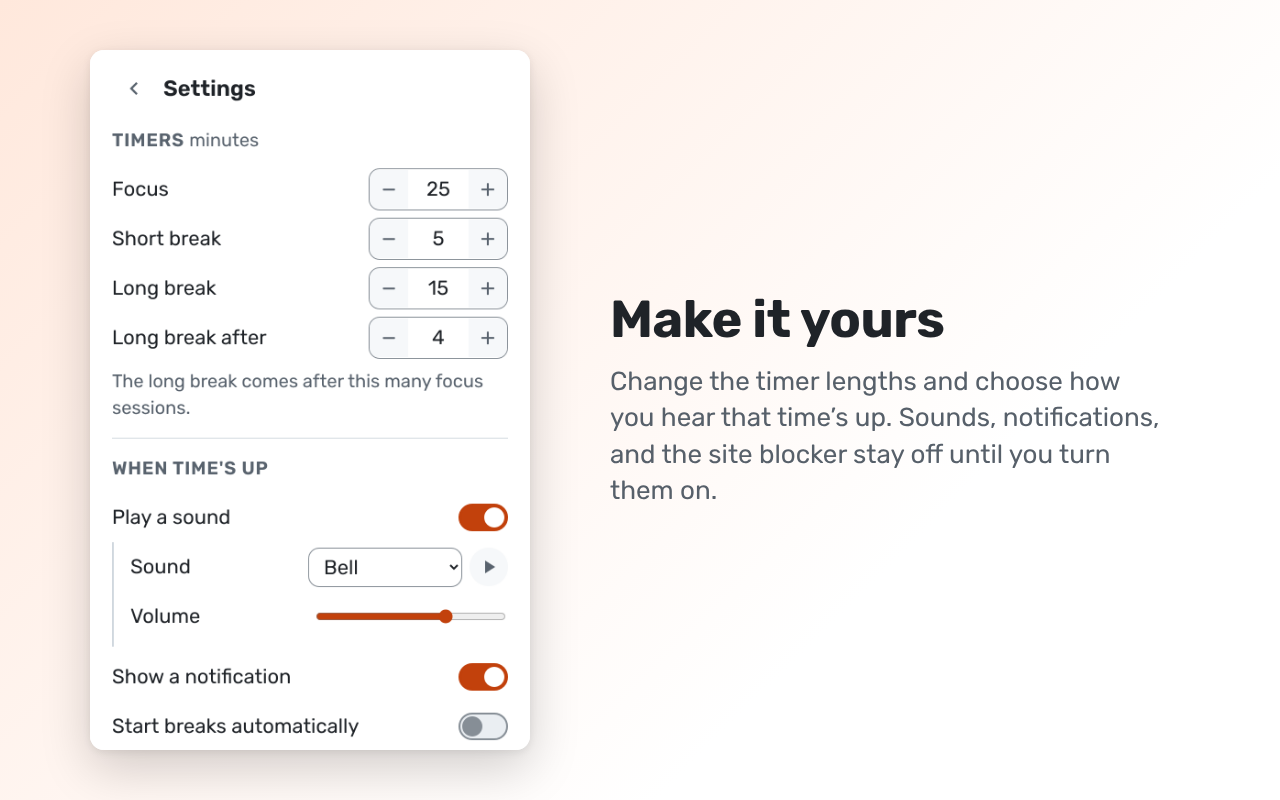
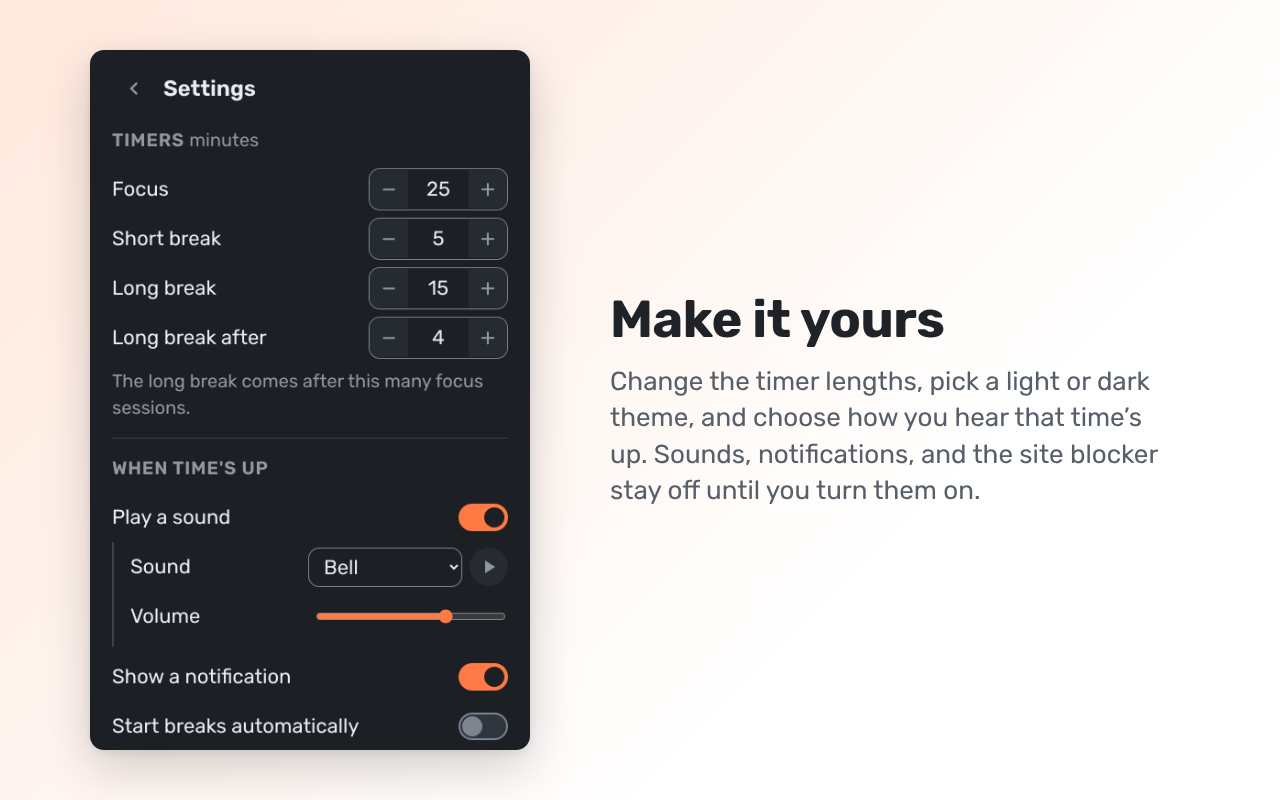
Release 1.1.0: version bump, changelog, and refreshed store listing
Bumps the extension to 1.1.0 for the first Chrome Web Store update and adds a
CHANGELOG.md covering everything merged since 1.0.0. The store description
gains a short "What's new in 1.1" section and gathers its URLs into one Links
block, since the store doesn't make links in the description clickable. The
support URL moves to the website's contact section, and the break and settings
screenshots now show the optional quote and the dark theme.

Claude-Session: https://claude.ai/code/session_011BbHMu8Vy1ggP7uzVQsrNe

diff --git a/store/LISTING.md b/store/LISTING.md
@@ -1,7 +1,7 @@
 # Chrome Web Store listing
 
 Everything to paste into the [Developer Dashboard](https://chrome.google.com/webstore/devconsole)
-for Tomomomento 1.0.0. Images are in [`images/`](images); regenerate them with
+for Tomomomento 1.1.0 (what changed: [CHANGELOG.md](../CHANGELOG.md)). Images are in [`images/`](images); regenerate them with
 `node scripts/store-images.mjs` after UI changes.
 
 ## Store listing tab
@@ -28,10 +28,11 @@ Features
 • A countdown badge on the toolbar icon, so you can see the time left at a glance
 • Optional alerts when time's up: a gentle bell, chime, or beep, and/or a desktop notification
 • Optional auto-start for breaks and focus sessions
-• Today's completed sessions, and dots showing how close the long break is
+• A progress bar under the clock, today's completed sessions, and dots showing how close the long break is
 • An optional site blocker that shows a "stay focused" page for the sites you choose, only during focus sessions
 • A built-in guide to the technique and how to use it
 • Light and dark themes that follow your system, or pick one yourself
+• Optional quotes on the timer screen: focus quotes while you work, rest quotes on breaks
 • Large, easy-to-read text, with keyboard and screen reader support
 • Alt+Shift+P opens Tomomomento from anywhere in Chrome
 
@@ -39,11 +40,21 @@ Private by design
 Tomomomento has no account, no ads, no analytics, and no tracking. It makes no network requests. Your settings stay in your browser.
 
 Free and open source
-Tomomomento is free and always will be. The code is open under the MIT License at https://github.com/jtpoltorak/tomomomento. It was built with Claude Code, Anthropic's AI coding assistant.
+Tomomomento is free and always will be. The code is open under the MIT License. It was built with Claude Code, Anthropic's AI coding assistant. Not using Chrome? The same timer runs in any browser on the website below.
 
-Not using Chrome? The same timer runs in any browser at https://tomomomento.com.
+What's new in 1.1
+• Choose a light, dark, or system theme
+• Optional quotes on the timer screen
+• A progress bar under the clock
+• Bigger text and controls, and Help split into tabs
+• Accessibility: meets WCAG 2.2 AA in both themes
+• Fixed: the "done today" count now resets at midnight
 
-Questions or ideas? Email support@tomomomento.com.
+Links
+Website: https://tomomomento.com
+Source code: https://github.com/jtpoltorak/tomomomento
+Full changelog: https://github.com/jtpoltorak/tomomomento/blob/main/CHANGELOG.md
+Questions or ideas: support@tomomomento.com
 
 Pomodoro® and the Pomodoro Technique® are registered trademarks of Francesco Cirillo. Tomomomento isn't affiliated with or endorsed by Francesco Cirillo.
 ```
@@ -66,7 +77,13 @@ Pomodoro® and the Pomodoro Technique® are registered trademarks of Francesco C
 
 **Homepage URL:** https://tomomomento.com
 
-**Support URL:** https://github.com/jtpoltorak/tomomomento/issues
+**Support URL:** https://tomomomento.com/legal.html#contact (no GitHub account needed to reach you)
+
+The description is plain text: the store doesn't turn URLs or emails in it into
+links. The clickable links on the listing come from the **Homepage URL** and
+**Support URL** fields above and the developer contact email (Account page,
+shown under Details). That's why the description keeps its links together in
+one "Links" block, where they're easy to spot and copy.
 
 **Mature content:** No
 
@@ -102,3 +119,16 @@ Pomodoro® and the Pomodoro Technique® are registered trademarks of Francesco C
 - **Payments:** Free of charge
 - **Visibility:** Public (or Unlisted first, if you'd like to try the store install before anyone can find it)
 - **Distribution:** All regions
+
+## Publishing an update
+
+1. Bump `version` in `package.json` (the build copies it into the manifest).
+   The store rejects a zip whose version isn't higher than the published one.
+2. Add the release to [CHANGELOG.md](../CHANGELOG.md) and the "What's new"
+   lines in the description above.
+3. `npm run package` writes `tomomomento-<version>.zip`. If the UI changed,
+   rerun `node scripts/store-images.mjs` too.
+4. In the dashboard, open the item, go to **Package** > **Upload new package**,
+   and upload the zip. Update the **Store listing** tab (description,
+   screenshots) if they changed, then **Submit for review**. The live version
+   stays up until the update is approved.

diff --git a/README.md b/README.md
@@ -6,6 +6,10 @@ long break after every 4 sessions. All of that is adjustable. Sound and
 notification alerts and a site blocker are available but off until you turn
 them on.
 
+Get it on the [Chrome Web Store](https://chromewebstore.google.com/detail/tomomomento-focus-timer/jifoicfckeiocjdipblgjndlmfojkdam),
+or use it in any browser at [tomomomento.com](https://tomomomento.com). What's
+new in each release is in [CHANGELOG.md](CHANGELOG.md).
+
 <p>
   <img src="docs/popup.png" alt="Timer" width="360" />
   <img src="docs/settings.png" alt="Settings" width="360" />
@@ -170,7 +174,7 @@ collection, which keeps review straightforward.
 
 1. Keep "Pomodoro" out of the extension's name and store title: Pomodoro® is a registered trademark of Francesco Cirillo, whose [trademark guidelines](https://www.pomodorotechnique.com/pomodoro-trademark-guidelines/) don't allow it in product names. Describing the technique is fine with the ® and the not-affiliated note (see Help and `legal.html#credits`).
 1. If your name or support email changes, update `src/shared/about.ts`, `PRIVACY.md`, and `TERMS.md` together.
-1. Bump `version` in `package.json` (the build copies it into the manifest).
+1. Bump `version` in `package.json` (the build copies it into the manifest) and add the release to [CHANGELOG.md](CHANGELOG.md) and the "What's new" lines in the store description.
 1. Run `npm run package` and upload the zip it writes.
 1. Register at the [Chrome Web Store Developer Dashboard](https://chrome.google.com/webstore/devconsole) (one-time $5 fee). Add support@tomomomento.com as the account's contact email (it's shown on the listing and can be changed later; the sign-in account can't). Turn on 2-step verification for the Google account, and declare yourself a **non-trader** (you're an individual, not a business).
 1. Fill in the Store listing, Privacy practices, and Distribution tabs from [store/LISTING.md](store/LISTING.md), which has the description, category, permission justifications, privacy answers, and the screenshots and promo tiles in [store/images](store/images). Regenerate the images with `node scripts/store-images.mjs` after UI changes.

diff --git a/CHANGELOG.md b/CHANGELOG.md
@@ -1,0 +1,39 @@
+# Changelog
+
+What changed in each release of the Chrome extension. The web app at
+https://tomomomento.com updates from `main` as changes land, so it gets each of
+these first.
+
+## 1.1.0 (2026-10-09)
+
+### New
+
+- **Theme setting:** choose light, dark, or follow your system (Settings > Appearance).
+- **Optional quotes:** a short quote on the timer screen, about focus and effort
+  during focus sessions and about rest on breaks. Off by default; turn it on in
+  Settings > Appearance.
+- **Progress bar:** a bar under the clock that empties as time runs out, in place
+  of the ring.
+- **Bigger, easier-to-read layout:** larger text and controls throughout.
+- **Help tabs:** Help is split into Basics, Tips, Technique, and About.
+
+### Accessibility
+
+- Meets WCAG 2.2 AA: stronger contrast in both themes, clearer focus outlines,
+  full keyboard and screen reader support, and respect for reduced-motion settings.
+
+### Fixes
+
+- The "done today" count now resets at midnight. Before, yesterday's count could
+  show until you started a timer.
+- The long-break dots reset on a new day too.
+- A focus session that ends while Chrome is closed counts toward the day it ended,
+  not the day you reopen Chrome.
+
+### Web app only
+
+- An Install button in the header installs Tomomomento as an app.
+
+## 1.0.0 (2026-10-07)
+
+First release on the Chrome Web Store.
